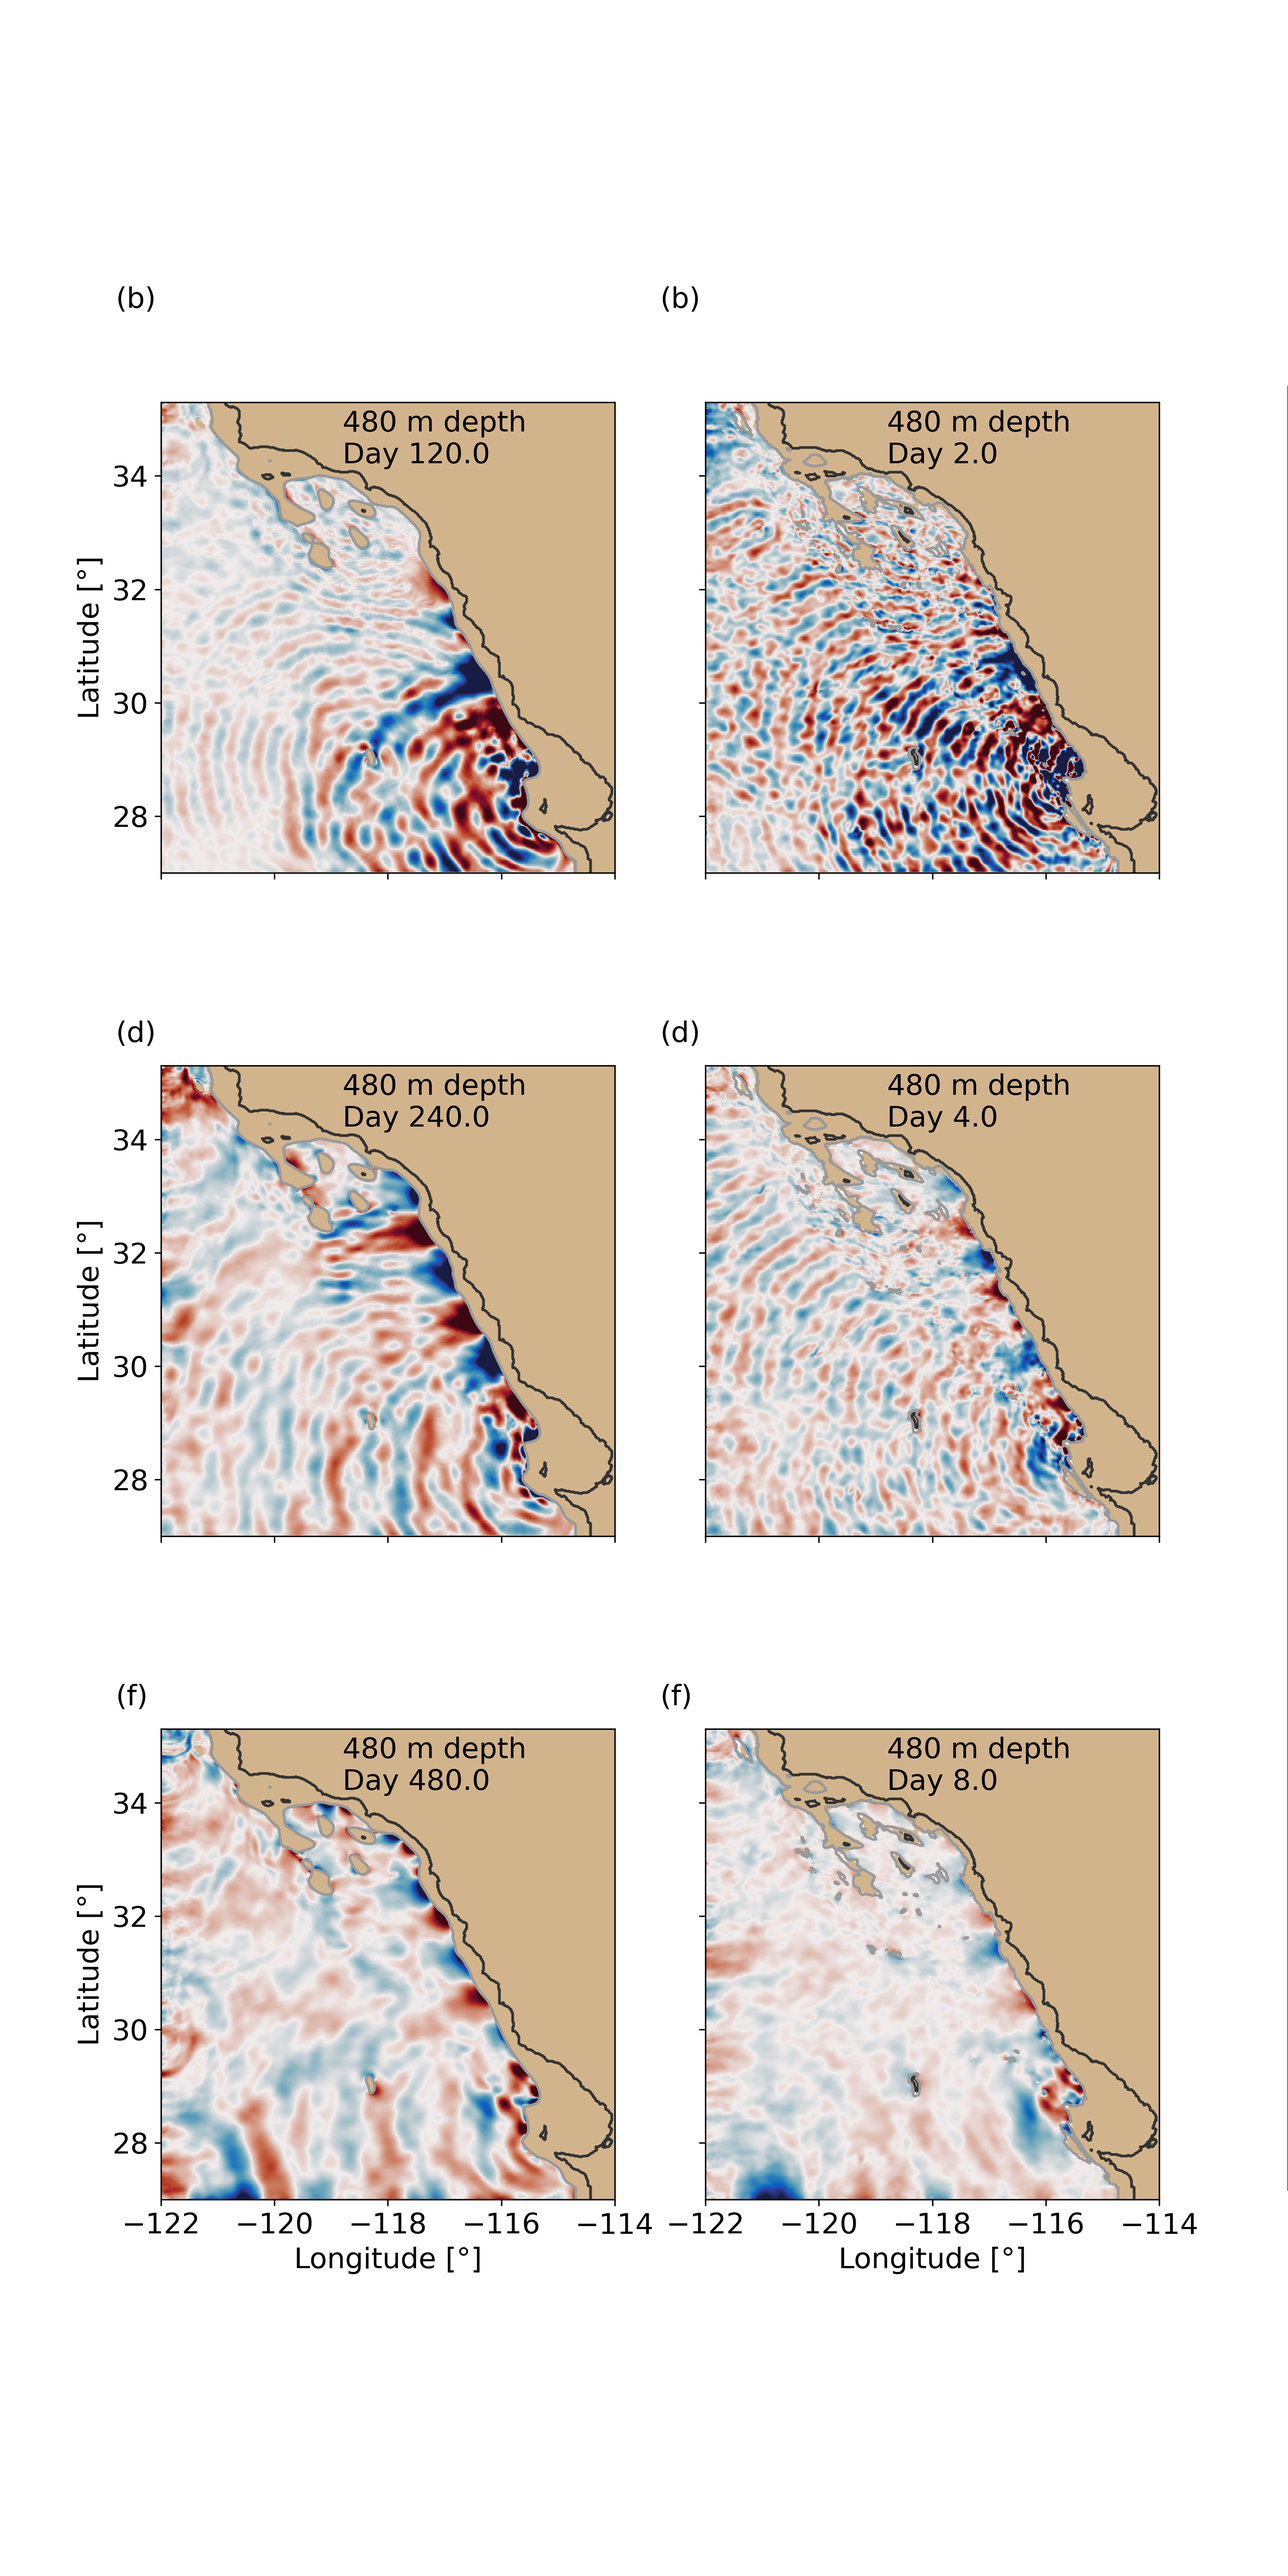
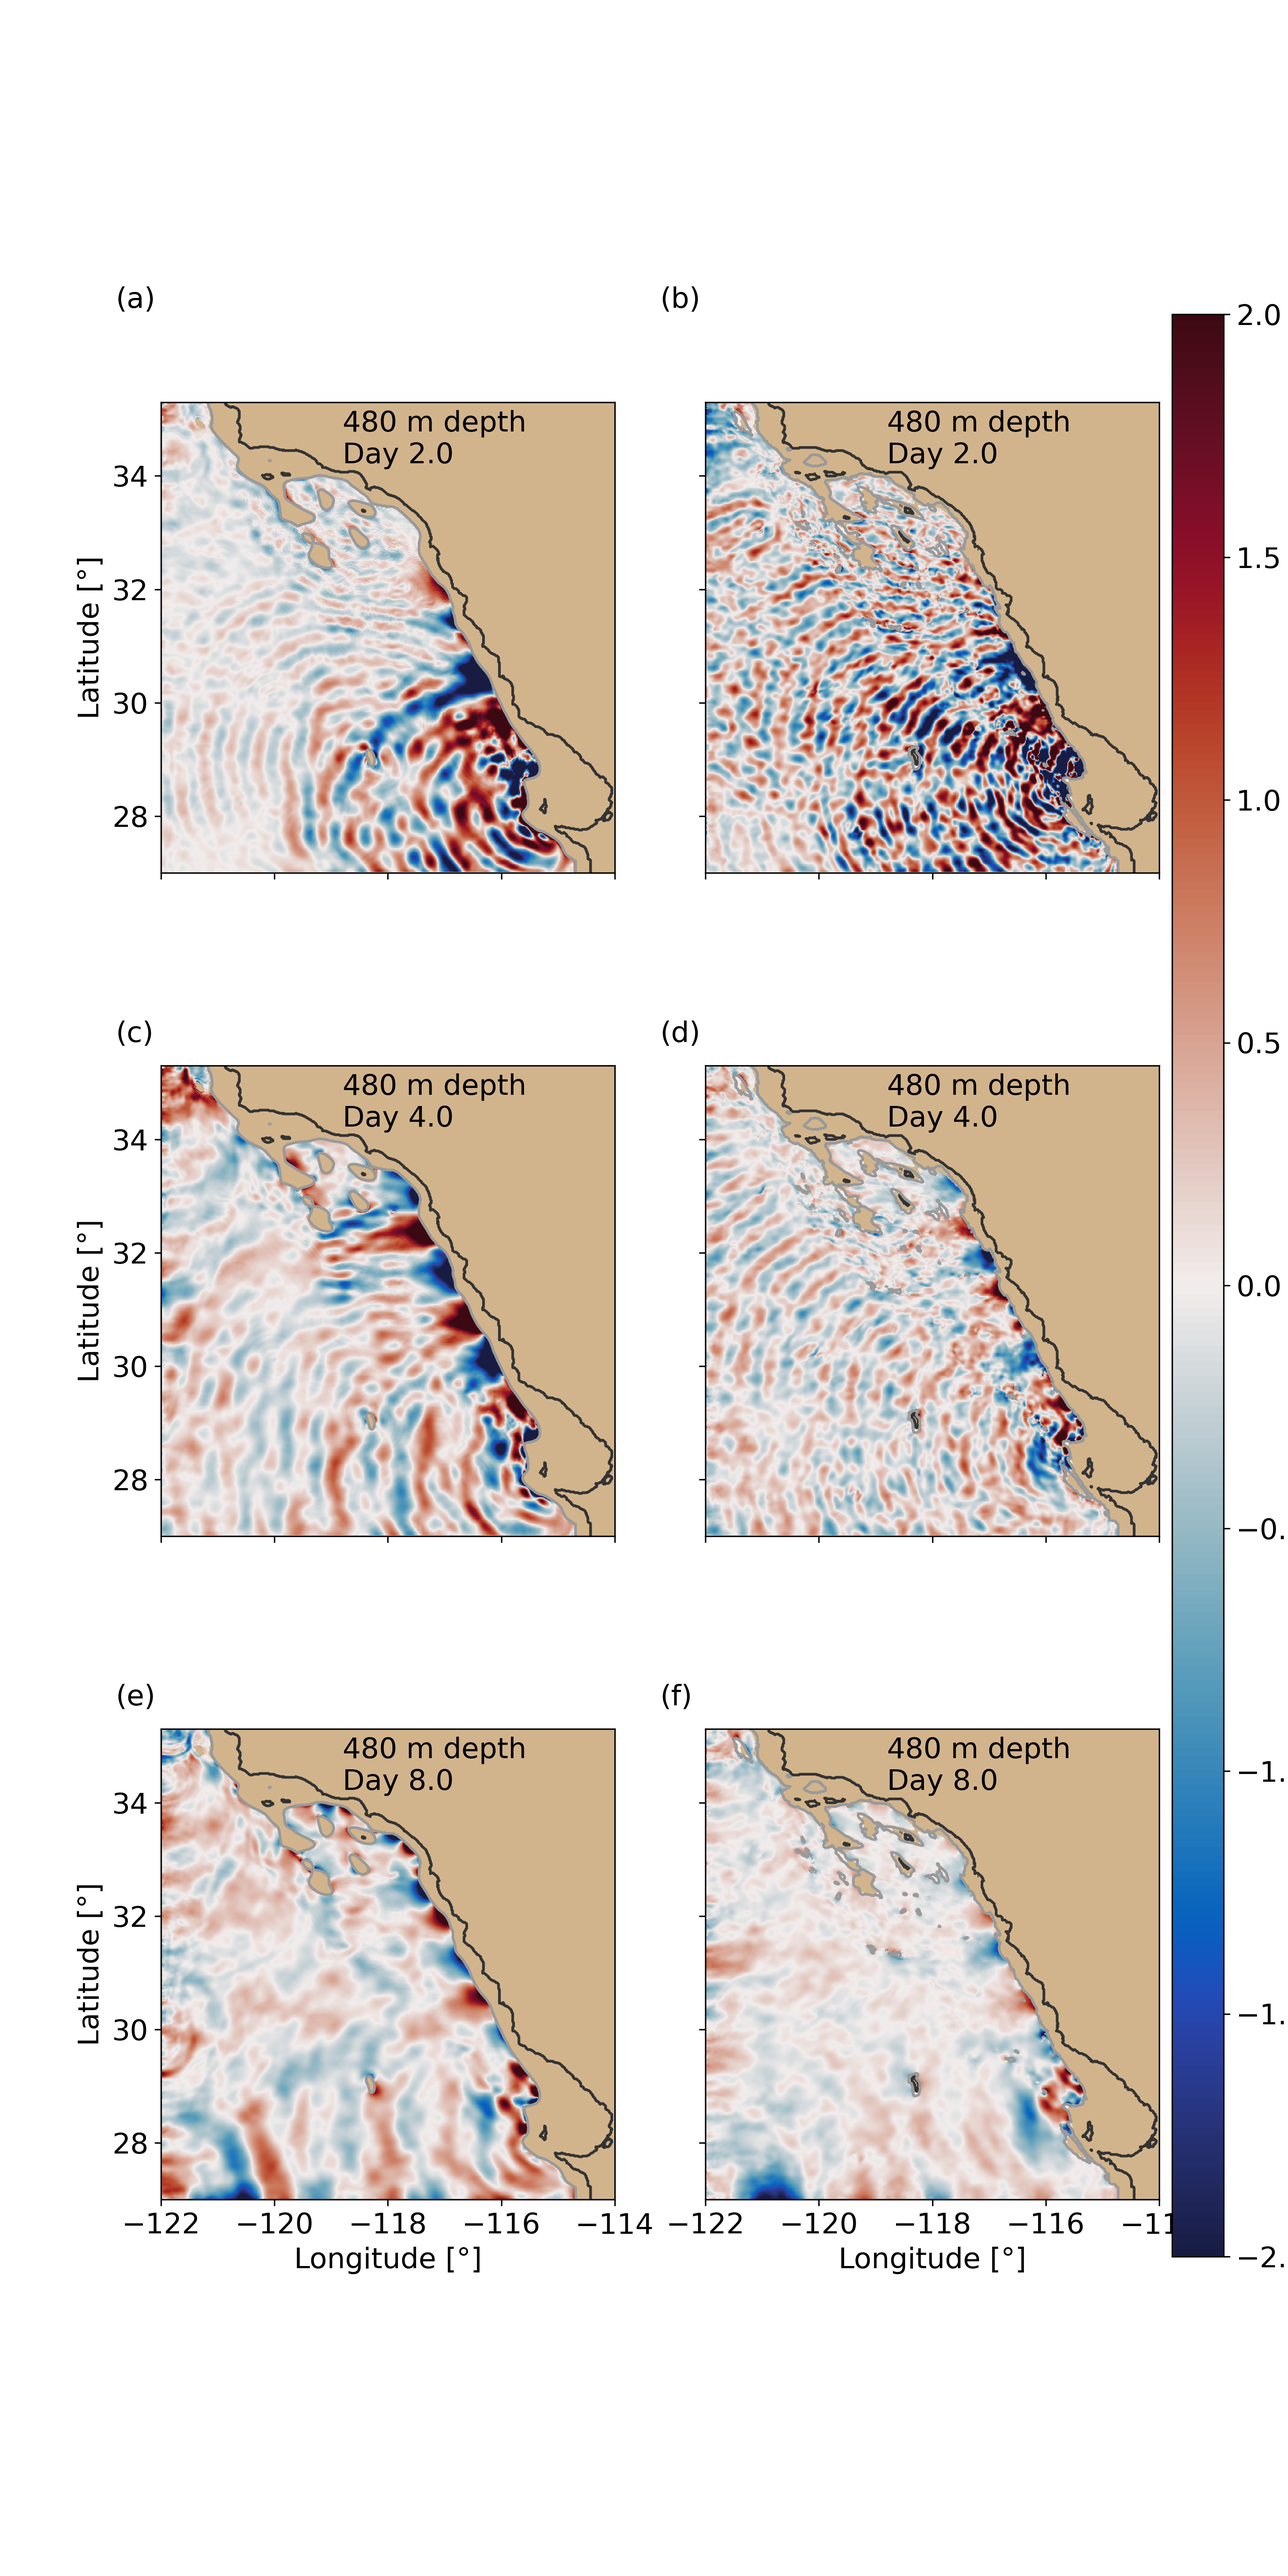
Visualising the waves

Changed region(s): [[0.899, 0.1247, 0.961, 0.8727], [0.992, 0.4987, 1.0, 0.5298], [0.992, 0.2805, 1.0, 0.3117]]

diff --git a/Scripts/WavesSSH.py b/Scripts/WavesSSH.py
@@ -11,11 +11,11 @@ from SVBfunc import haversine
 coast = 'smooth'
 
 pathETA='/home/athelandersson/NETCDFs/'+ str(coast) + '/ETA.nc'
-pathmask='/home/athelandersson/NETCDFs/'+ str(coast) + '_NO/etanoSVB1_2.nc'
+pathmask='/home/athelandersson/NETCDFs/'+ str(coast) + '_NO/etanoSVB2_3.nc'
 dsn=xr.open_dataset(pathmask)
 dsETA= xr.open_dataset(pathETA)
 
-etafiltall=dsETA.ETAfiltall.values
+etafiltall=dsETA.VALfilt.values
 LON=dsETA.x.values
 LAT=dsETA.y.values
 TIME=dsETA.time.values
@@ -32,10 +32,10 @@ coast = 'original'
 pathETA='/home/athelandersson/NETCDFs/'+ str(coast) + '/ETA.nc'
 dsETA= xr.open_dataset(pathETA)
 
-pathmask='/home/athelandersson/NETCDFs/'+ str(coast) + '_NO/etanoSVB1_2.nc'
+pathmask='/home/athelandersson/NETCDFs/'+ str(coast) + '_NO/etanoSVB2_3.nc'
 dsn=xr.open_dataset(pathmask)
 
-etafiltallo=dsETA.ETAfiltall.values
+etafiltallo=dsETA.VALfilt.values
 TIMEo=dsETA.time.values
 hFacCo = dsn.hFacC.values
 
@@ -96,7 +96,6 @@ ax.contour(LON,LAT,depth,  colors=['0.2','0.6'],
 
 ax.tick_params(axis='x',which='both', bottom=True, top=False, labelbottom=False)
 ax.set(ylabel=ylab)
-cbar_ax.set_label('SSH [mm]')
 
 ax.text(-0.1,1.05, '(c)', transform=ax.transAxes)
 ax.text(0.4,0.87, f'Surface \nDay {TIME[ind2]/(60*60*24)}', transform=ax.transAxes,horizontalalignment='left')
@@ -114,7 +113,6 @@ ax.contour(LON,LAT,depth,  colors=['0.2','0.6'],
 
 
 ax.set(xlabel=xlab, ylabel=ylab)
-cbar_ax.set_label('SSH [mm]')
 
 ax.text(-0.1,1.05, '(e)', transform=ax.transAxes)
 ax.text(0.4,0.87, f'Surface \nDay {TIME[ind3]/(60*60*24)}', transform=ax.transAxes,horizontalalignment='left')
